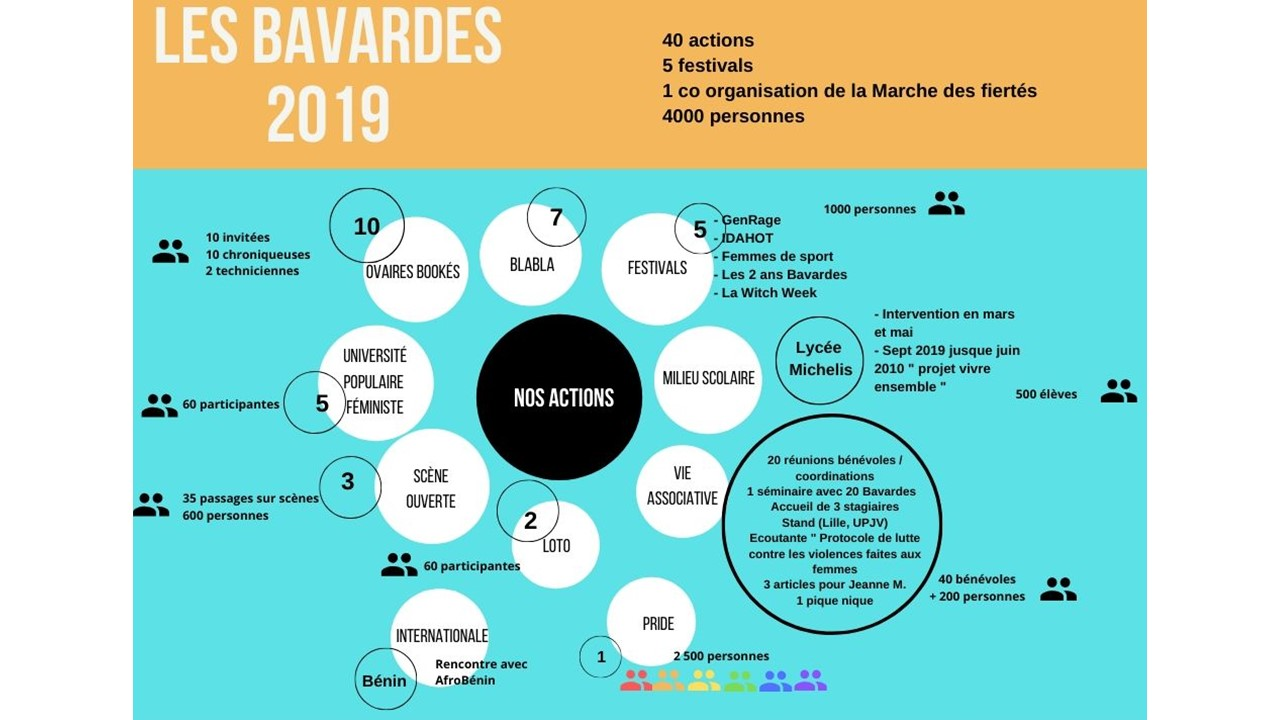
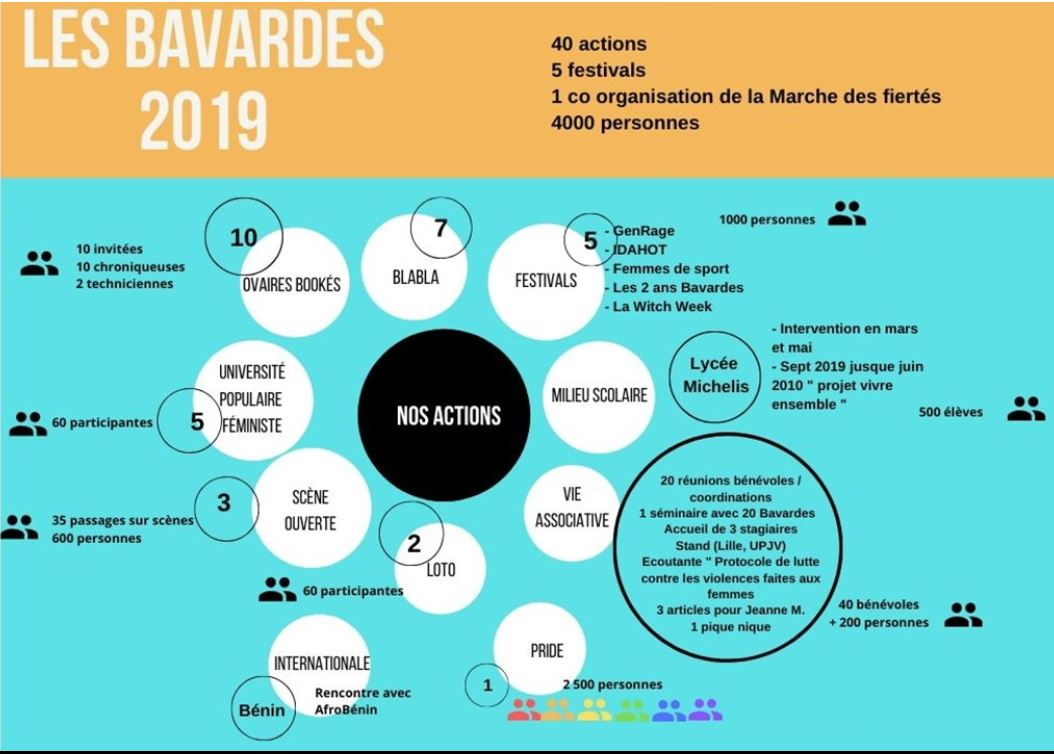
orthographe

diff --git a/About.php b/About.php
@@ -6,21 +6,30 @@ require("header.php");
 
 <div class="col-lg-12 ombre pt-5 pb-5 ">
     <h1 class="col-lg-8 pb-3 mx-auto pagetitre">Qui sommes nous ?</h1>
+
+
+
+<div class= "col-lg-8 mx-auto text-left">
+  <img src="assets\img\seminaire.jpg" alt="l'équipe bénévoles bavardes" class="d-block w-100">
+</div>
+
+
+
     <div class="col-lg-8 mx-auto text-left">
      
             <div class="textAbout pt-5"><p >Les Bavardes collectif féministe et lesbien créé en 2017 à Amiens par 5 meufs voulant rendre visible
               la lutte pour les droits de toutes les femmes, et des personnes LBTQI+, en proposant un espace à
               toutes pour partager, échanger et s'émanciper. <br><br>
 
-              Au fil des mois voyant de plus en plus de personnes à nos événement, nous avons été sollicité pour
+              Au fil des mois voyant de plus en plus de personnes à nos événements, nous avons été sollicités pour
               de nombreuses actions, le collectif s'est constitué en association et à rapidement recueilli une
               quarantaine de bénévoles actives. <br><br>
 
-              Les manifestations dans l'espace publique et la dimension de désobéissance civile à rapidement pris
+              Les manifestations dans l'espace public et la dimension de désobéissance civile ont rapidement pris
               le pas et à rendre visibles nos actions et partenariats.<br>
-              Deux ans après la sororité est tel que le patriarcat et le capitalisme tremble ! <br><br>
+              Deux ans après la sororité est tel que le patriarcat et le capitalisme tremblent ! <br><br>
 
-              Aujourd'hui nous sommes fières de voir que Amiens rassemble la Picardie autour de nos idées et que
+              Aujourd'hui nous sommes fières de voir qu' Amiens rassemble la Picardie autour de nos idées et que
               l'ensemble de nos actions nous mènent à Paris, Lille, et à l'international Brighton, Le Bénin...
              </p>
              </div>

diff --git a/index.php b/index.php
@@ -104,14 +104,14 @@ require("header.php");
   
 </article>
 <!-- -----------------2----------------- -->
-<article class="pt-4 pl-1">
+<article class=pt-4 pl"-1">
     <div class="col-lg-12">
       <h4 class=" float-left brl mr-1">06<br>NOV</h4>
     <h5 class="pt-2"> <a href="https://www.facebook.com/events/1838622449614692/" class="link"> Le Bla-Bla des Sorcières #16</a></h5>
   </div>
   <br>
     <p class="col-lg-12">
-    Inscription par mail à : lesbavardesamiens@gmail.com
+    
     </p>
   
 </article>
@@ -136,7 +136,8 @@ require("header.php");
   <br>
     <p class="col-lg-12">
     18H - ATELIER Inscription par mail à : witchesweek@gmail.com <br>
-    19H - PERFORMANCE Live painting "Regard de femme"
+    19H - PERFORMANCE Live painting "Regard de femme" <br>
+    FINAL - DISCUSSION & DJ'S Bar festif et repas  DJ Pink MOLOKO
     </p>  
 </article>
 <!-- ---------------------------------- -->

diff --git a/header.php b/header.php
@@ -98,11 +98,11 @@
                      <!-- Actif collaboration ou non -->
                     <?php if($ma_pages == 'collaboration'){ ?> 
                         <li class="nav-item active pr-4  pl-4">
-                            <a class="nav-link text-center" href="collaboration.php">Collaboration</a>
+                            <a class="nav-link text-center" href="collaboration.php">Nos Collaborations</a>
                         </li>
                         <?php  }else{    ?>
                         <li class="nav-item pr-4  pl-4">
-                             <a class="nav-link text-center" href="collaboration.php">Collaboration</a>
+                             <a class="nav-link text-center" href="collaboration.php">Nos Collaborations</a>
                         </li>
                     <?php  }  ?>        
                     

diff --git a/action.php b/action.php
@@ -8,7 +8,7 @@ require("header.php");
     <div class="row">
       <div class="col-md-12">
 
-      <img class="d-block w-100" src="assets\img\actions\Diapositive6.JPG" alt="nos actions">
+      <img class="d-block w-100" src="assets\img\actions\diapo.png" alt="nos actions">
       <img class="d-block w-100" src="assets\img\actions\ims1.JPG" alt="Interventions en milieu scolaire michelis">
       <img class="d-block w-100" src="assets\img\actions\ims2.JPG" alt="Interventions en milieu scolaire michelis">
       <img class="d-block w-100" src="assets\img\actions\ims3.JPG" alt="Interventions en milieu scolaire michelis">
